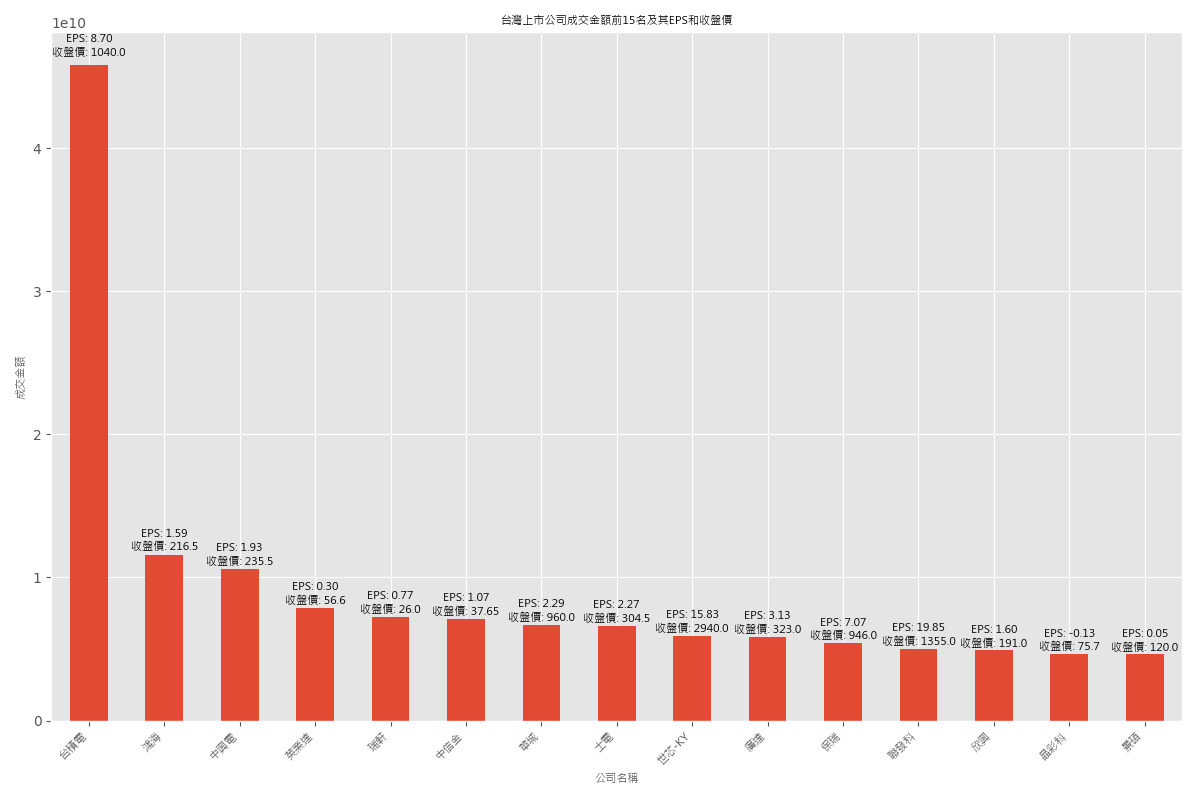
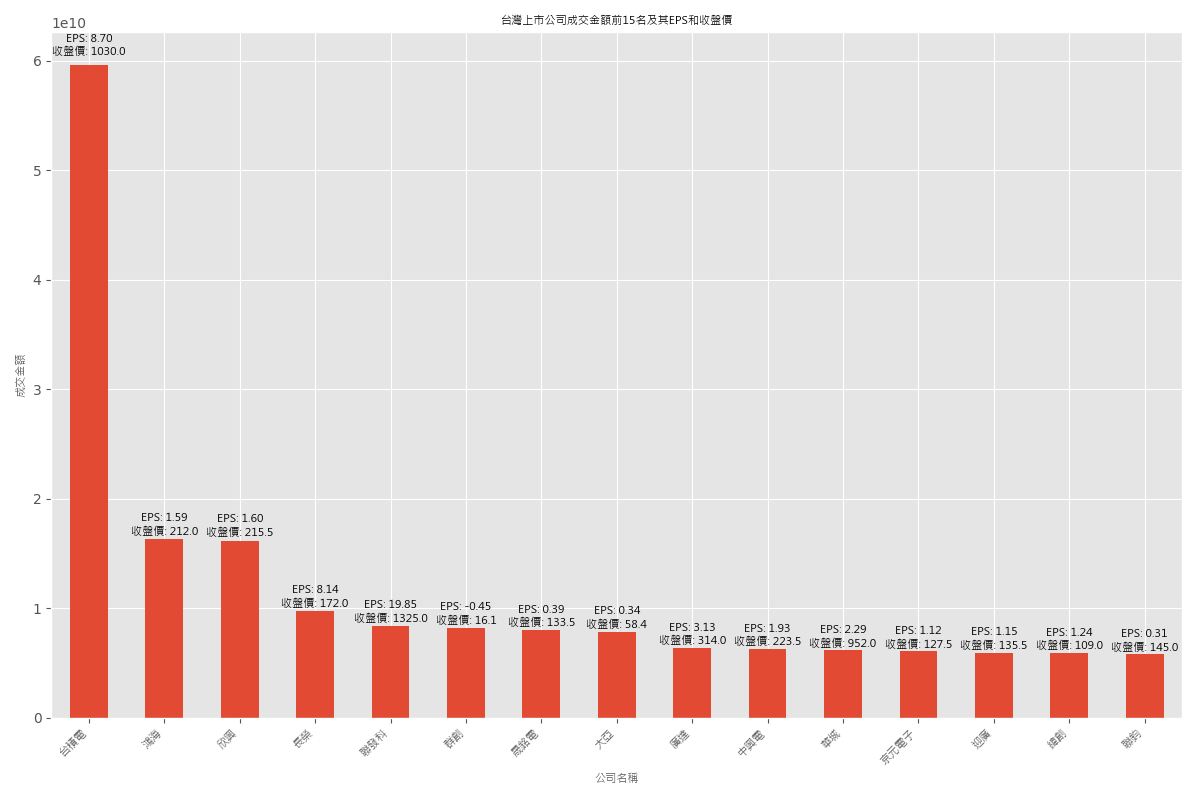
Update from GitHub Actions

diff --git a/README.md b/README.md
@@ -18,55 +18,55 @@ EPS從每年的年初開始計算。
 
 ![2317_3month_history](https://github.com/weitsunglin/quick_analyze_taiwan_hot_stock/blob/main/hot/2317_3month_history.png)
 
-### 股票代號：1513
+### 股票代號：3037
 
-![1513_3month_history](https://github.com/weitsunglin/quick_analyze_taiwan_hot_stock/blob/main/hot/1513_3month_history.png)
+![3037_3month_history](https://github.com/weitsunglin/quick_analyze_taiwan_hot_stock/blob/main/hot/3037_3month_history.png)
 
-### 股票代號：2356
+### 股票代號：2603
 
-![2356_3month_history](https://github.com/weitsunglin/quick_analyze_taiwan_hot_stock/blob/main/hot/2356_3month_history.png)
-
-### 股票代號：2489
-
-![2489_3month_history](https://github.com/weitsunglin/quick_analyze_taiwan_hot_stock/blob/main/hot/2489_3month_history.png)
-
-### 股票代號：2891
-
-![2891_3month_history](https://github.com/weitsunglin/quick_analyze_taiwan_hot_stock/blob/main/hot/2891_3month_history.png)
-
-### 股票代號：1519
-
-![1519_3month_history](https://github.com/weitsunglin/quick_analyze_taiwan_hot_stock/blob/main/hot/1519_3month_history.png)
-
-### 股票代號：1503
-
-![1503_3month_history](https://github.com/weitsunglin/quick_analyze_taiwan_hot_stock/blob/main/hot/1503_3month_history.png)
-
-### 股票代號：3661
-
-![3661_3month_history](https://github.com/weitsunglin/quick_analyze_taiwan_hot_stock/blob/main/hot/3661_3month_history.png)
-
-### 股票代號：2382
-
-![2382_3month_history](https://github.com/weitsunglin/quick_analyze_taiwan_hot_stock/blob/main/hot/2382_3month_history.png)
-
-### 股票代號：6472
-
-![6472_3month_history](https://github.com/weitsunglin/quick_analyze_taiwan_hot_stock/blob/main/hot/6472_3month_history.png)
+![2603_3month_history](https://github.com/weitsunglin/quick_analyze_taiwan_hot_stock/blob/main/hot/2603_3month_history.png)
 
 ### 股票代號：2454
 
 ![2454_3month_history](https://github.com/weitsunglin/quick_analyze_taiwan_hot_stock/blob/main/hot/2454_3month_history.png)
 
-### 股票代號：3037
+### 股票代號：3481
 
-![3037_3month_history](https://github.com/weitsunglin/quick_analyze_taiwan_hot_stock/blob/main/hot/3037_3month_history.png)
+![3481_3month_history](https://github.com/weitsunglin/quick_analyze_taiwan_hot_stock/blob/main/hot/3481_3month_history.png)
 
-### 股票代號：3535
+### 股票代號：3013
 
-![3535_3month_history](https://github.com/weitsunglin/quick_analyze_taiwan_hot_stock/blob/main/hot/3535_3month_history.png)
+![3013_3month_history](https://github.com/weitsunglin/quick_analyze_taiwan_hot_stock/blob/main/hot/3013_3month_history.png)
 
-### 股票代號：3189
+### 股票代號：1609
 
-![3189_3month_history](https://github.com/weitsunglin/quick_analyze_taiwan_hot_stock/blob/main/hot/3189_3month_history.png)
+![1609_3month_history](https://github.com/weitsunglin/quick_analyze_taiwan_hot_stock/blob/main/hot/1609_3month_history.png)
+
+### 股票代號：2382
+
+![2382_3month_history](https://github.com/weitsunglin/quick_analyze_taiwan_hot_stock/blob/main/hot/2382_3month_history.png)
+
+### 股票代號：1513
+
+![1513_3month_history](https://github.com/weitsunglin/quick_analyze_taiwan_hot_stock/blob/main/hot/1513_3month_history.png)
+
+### 股票代號：1519
+
+![1519_3month_history](https://github.com/weitsunglin/quick_analyze_taiwan_hot_stock/blob/main/hot/1519_3month_history.png)
+
+### 股票代號：2449
+
+![2449_3month_history](https://github.com/weitsunglin/quick_analyze_taiwan_hot_stock/blob/main/hot/2449_3month_history.png)
+
+### 股票代號：6117
+
+![6117_3month_history](https://github.com/weitsunglin/quick_analyze_taiwan_hot_stock/blob/main/hot/6117_3month_history.png)
+
+### 股票代號：3231
+
+![3231_3month_history](https://github.com/weitsunglin/quick_analyze_taiwan_hot_stock/blob/main/hot/3231_3month_history.png)
+
+### 股票代號：3450
+
+![3450_3month_history](https://github.com/weitsunglin/quick_analyze_taiwan_hot_stock/blob/main/hot/3450_3month_history.png)
 
